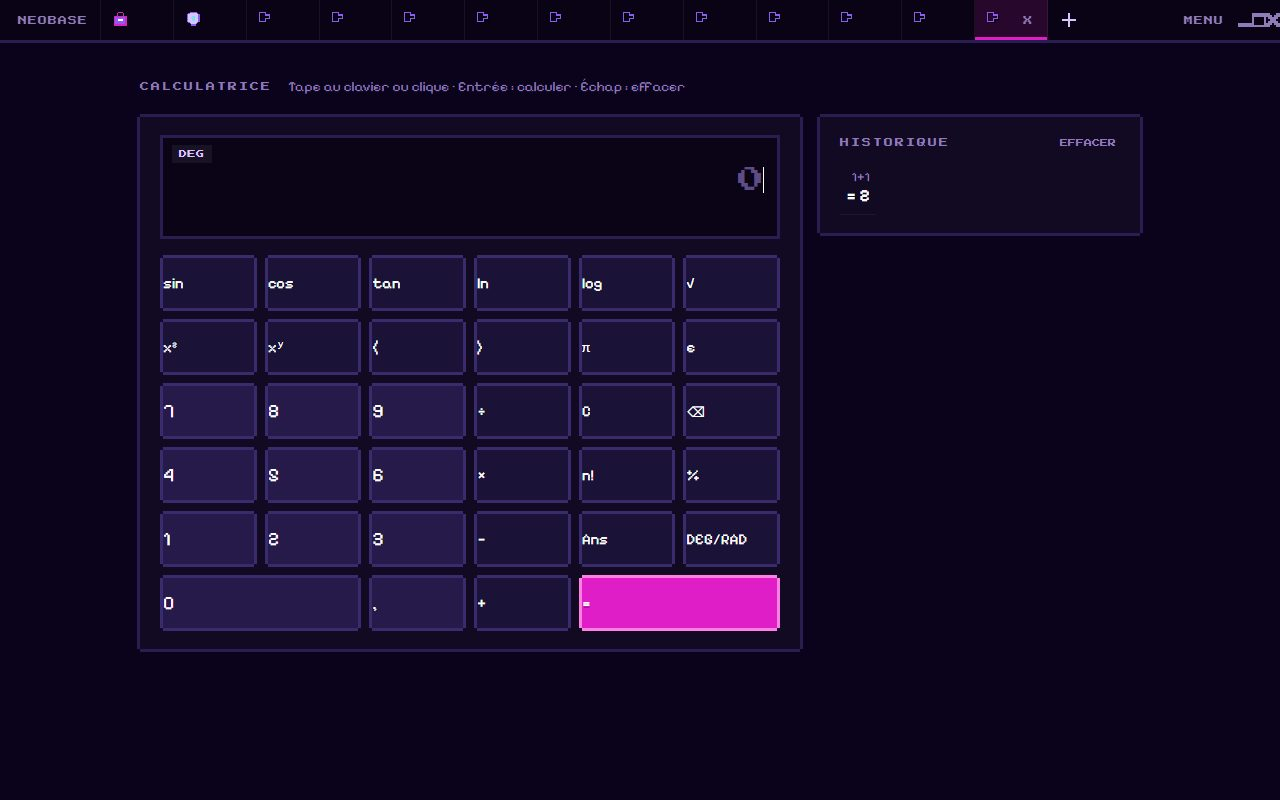
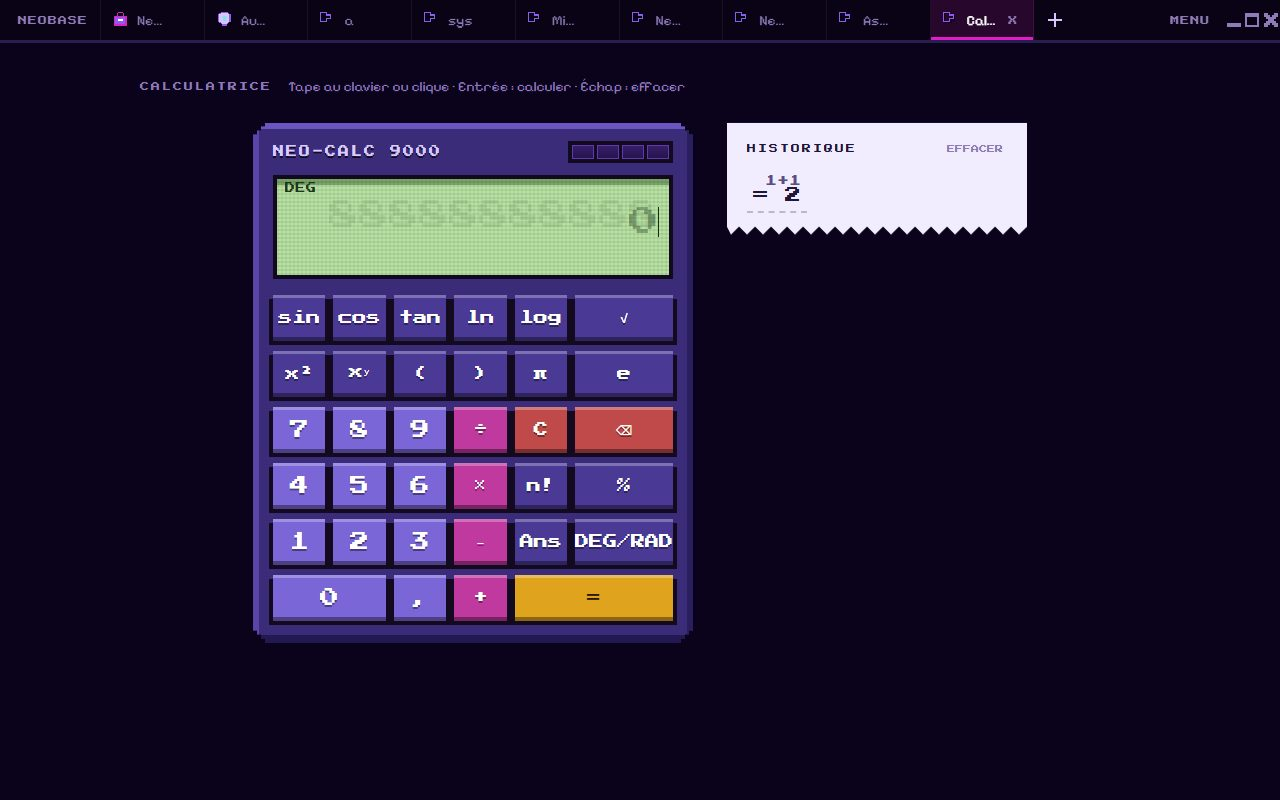
Calculatrice pixel

diff --git a/index.js b/index.js
@@ -1,24 +1,46 @@
 // Calculatrice : ton appli d'origine (HTML et code inchangés), livrée en plugin.
 // Ses données sont dans le dossier du plugin, que NeoBase sauvegarde (synchro cloud et sauvegardes) ; à la première ouverture elle reprend ce que tu avais dans NeoBase.
 // Elle demande l'accès complet pour utiliser les outils d'interface de NeoBase. NeoBase ne l'ouvre que si elle est signée.
-const HTML = "<div class=\"appWrap\">\n      <div class=\"agHead\"><span class=\"label\">Calculatrice</span><span class=\"hint\">Tape au clavier ou clique · Entrée : calculer · Échap : effacer</span></div>\n      <div class=\"calcMain\">\n        <div class=\"sysCard px calcPad\"><div class=\"calcScreen\"><span id=\"calcMode\" class=\"badge\"></span><input id=\"calcIn\" spellcheck=\"false\" autocomplete=\"off\" placeholder=\"0\"><div id=\"calcOut\"></div></div><div id=\"calcKeys\"></div></div>\n        <div class=\"sysCard px calcSide\"><div class=\"chHead\"><span class=\"label\">Historique</span><button class=\"x\" id=\"calcClearHist\" style=\"margin-left:auto;font-size:8px\">EFFACER</button></div><div id=\"calcHist\"></div></div>\n      </div>\n    </div>";
+const HTML = "<div class=\"appWrap\">\n      <div class=\"agHead\"><span class=\"label\">Calculatrice</span><span class=\"hint\">Tape au clavier ou clique · Entrée : calculer · Échap : effacer</span></div>\n      <div class=\"calcMain\">\n        <div class=\"calcBody\"><div class=\"calcTop\"><span class=\"calcBrand\">NEO-CALC 9000</span><div class=\"calcSolar\"><i></i><i></i><i></i><i></i></div></div><div class=\"calcScreen\"><span id=\"calcMode\" class=\"badge\"></span><input id=\"calcIn\" spellcheck=\"false\" autocomplete=\"off\" placeholder=\"0\"><div id=\"calcOut\"></div></div><div id=\"calcKeys\"></div></div>\n        <div class=\"sysCard px calcSide\"><div class=\"chHead\"><span class=\"label\">Historique</span><button class=\"x\" id=\"calcClearHist\" style=\"margin-left:auto;font-size:8px\">EFFACER</button></div><div id=\"calcHist\"></div></div>\n      </div>\n    </div>";
 /*CSS-MOVED*/ const CSS = `.shGrid td.num{text-align:right}
-.calcMain{display:grid;grid-template-columns:minmax(0,1fr) 320px;gap:20px;align-items:start}
-.calcScreen{position:relative;padding:14px 16px;background:var(--field);box-shadow:inset 0 0 0 3px var(--line)}
-#calcMode{position:absolute;top:10px;left:12px}
-#calcIn{all:unset;display:block;width:100%;text-align:right;font:26px var(--title);color:#fff;padding-top:18px}
-#calcIn::placeholder{color:var(--ph)}
-#calcOut{text-align:right;font:18px var(--text);color:var(--pink);min-height:26px;margin-top:6px}
-#calcKeys{display:grid;grid-template-columns:repeat(6,1fr);gap:8px;margin-top:6px}
-.calcKey{height:50px;font:15px var(--text);padding:0;margin:3px}
-.calcKey.wide{grid-column:span 2}
-.calcKey.num{--fill:var(--btnh);font-size:19px}
-.calcRow{all:unset;cursor:var(--cp,pointer);display:flex;flex-direction:column;align-items:flex-end;padding:8px 6px;border-bottom:1px solid rgba(255,255,255,.06)}
-.calcRow:hover{background:rgba(255,255,255,.05)}
-.calcRow span{font-size:13px;color:var(--muted);word-break:break-all}
-.calcRow b{font-size:17px;color:#fff}
-#calcHist{max-height:520px;overflow-y:auto}
 .chHead{display:flex;align-items:center;gap:16px;flex-wrap:wrap}
+.calcMain{display:grid;grid-template-columns:minmax(0,440px) minmax(220px,300px);gap:34px;align-items:start;justify-content:center;padding:6px 0 18px}
+/* le boîtier : bords en escalier, relief de plastique */
+.calcBody{position:relative;padding:18px 20px 22px;background:#3a2c78;clip-path:polygon(0 12px,4px 12px,4px 8px,8px 8px,8px 4px,12px 4px,12px 0,calc(100% - 12px) 0,calc(100% - 12px) 4px,calc(100% - 8px) 4px,calc(100% - 8px) 8px,calc(100% - 4px) 8px,calc(100% - 4px) 12px,100% 12px,100% calc(100% - 12px),calc(100% - 4px) calc(100% - 12px),calc(100% - 4px) calc(100% - 8px),calc(100% - 8px) calc(100% - 8px),calc(100% - 8px) calc(100% - 4px),calc(100% - 12px) calc(100% - 4px),calc(100% - 12px) 100%,12px 100%,12px calc(100% - 4px),8px calc(100% - 4px),8px calc(100% - 8px),4px calc(100% - 8px),4px calc(100% - 12px),0 calc(100% - 12px));
+  box-shadow:inset 0 6px 0 #6b55c0,inset 6px 0 0 #5a45a8,inset 0 -8px 0 #221852,inset -6px 0 0 #2a1f5e}
+.calcTop{display:flex;align-items:center;justify-content:space-between;margin-bottom:12px}
+.calcBrand{font:11px var(--title);letter-spacing:2px;color:#d9ccff;text-shadow:0 2px 0 #130a20}
+.calcSolar{display:flex;gap:3px;padding:4px;background:#130a20}
+.calcSolar i{display:block;width:22px;height:14px;background:linear-gradient(180deg,#3a1f6e,#24134a);box-shadow:inset 0 0 0 1px #5b3bb0}
+/* l'écran LCD : chiffres fantômes derrière, trame de pixels par-dessus */
+.calcScreen{position:relative;padding:12px 14px 10px;background:#b9e3a3;box-shadow:inset 0 0 0 4px #130a20,inset 0 6px 0 4px #7aa56a;overflow:hidden;margin-bottom:16px}
+.calcScreen::before{content:'88888888888';position:absolute;right:14px;top:26px;font:30px var(--title);color:rgba(20,40,20,.09);letter-spacing:0;pointer-events:none}
+.calcScreen::after{content:'';position:absolute;inset:0;pointer-events:none;background:repeating-linear-gradient(0deg,rgba(0,0,0,.07) 0 2px,transparent 2px 4px),repeating-linear-gradient(90deg,rgba(0,0,0,.05) 0 2px,transparent 2px 4px)}
+#calcMode{position:absolute;top:8px;left:12px;font:10px var(--title);color:#1d3a1a;background:none;box-shadow:none;padding:0}
+#calcIn{all:unset;display:block;width:100%;box-sizing:border-box;text-align:right;font:30px var(--title);color:#16301a;padding-top:20px;position:relative}
+#calcIn::placeholder{color:rgba(22,48,26,.35)}
+#calcOut{text-align:right;font:18px var(--title);color:#3b6a3a;min-height:26px;margin-top:6px;position:relative}
+#calcKeys{display:grid;grid-template-columns:repeat(6,minmax(0,1fr));gap:10px 8px;margin-top:6px}
+#calcKeys .calcKey{all:unset;box-sizing:border-box;display:flex;align-items:center;justify-content:center;height:46px;cursor:var(--cp,pointer);font:13px var(--title);color:#fff;background:#4a3a96;overflow:hidden;white-space:nowrap;
+  box-shadow:inset 0 3px 0 rgba(255,255,255,.28),inset 0 -4px 0 rgba(0,0,0,.38),0 4px 0 #130a20,4px 4px 0 #130a20,-4px 4px 0 #130a20;text-shadow:0 2px 0 rgba(0,0,0,.4)}
+#calcKeys .calcKey:hover{filter:brightness(1.15)}
+#calcKeys .calcKey:active{transform:translateY(4px);box-shadow:inset 0 3px 0 rgba(0,0,0,.25),0 0 0 #130a20}
+#calcKeys .calcKey.wide{grid-column:span 2}
+#calcKeys .calcKey.num{background:#7a66d6;font-size:19px}
+#calcKeys .calcKey.op{background:#c0399f}
+#calcKeys .calcKey.del{background:#c04a4a}
+#calcKeys .calcKey.main{background:#e0a31e;color:#2a1a00;text-shadow:none}
+/* le ticket : l'historique comme une bande de papier */
+.calcSide{background:#f2ecff!important;color:#201638;clip-path:polygon(0 0,100% 0,100% calc(100% - 8px),calc(100% - 8px) 100%,calc(100% - 16px) calc(100% - 8px),calc(100% - 24px) 100%,calc(100% - 32px) calc(100% - 8px),calc(100% - 40px) 100%,calc(100% - 48px) calc(100% - 8px),calc(100% - 56px) 100%,calc(100% - 64px) calc(100% - 8px),calc(100% - 72px) 100%,calc(100% - 80px) calc(100% - 8px),calc(100% - 88px) 100%,calc(100% - 96px) calc(100% - 8px),calc(100% - 104px) 100%,calc(100% - 112px) calc(100% - 8px),calc(100% - 120px) 100%,calc(100% - 128px) calc(100% - 8px),calc(100% - 136px) 100%,calc(100% - 144px) calc(100% - 8px),calc(100% - 152px) 100%,calc(100% - 160px) calc(100% - 8px),calc(100% - 168px) 100%,calc(100% - 176px) calc(100% - 8px),calc(100% - 184px) 100%,calc(100% - 192px) calc(100% - 8px),calc(100% - 200px) 100%,calc(100% - 208px) calc(100% - 8px),calc(100% - 216px) 100%,calc(100% - 224px) calc(100% - 8px),calc(100% - 232px) 100%,calc(100% - 240px) calc(100% - 8px),calc(100% - 248px) 100%,calc(100% - 256px) calc(100% - 8px),calc(100% - 264px) 100%,calc(100% - 272px) calc(100% - 8px),calc(100% - 280px) 100%,calc(100% - 288px) calc(100% - 8px),calc(100% - 296px) 100%,0 calc(100% - 8px));padding-bottom:22px!important}
+.calcSide .label{color:#201638!important}
+.calcRow{all:unset;cursor:var(--cp,pointer);display:flex;flex-direction:column;align-items:flex-end;padding:8px 6px;border-bottom:2px dashed rgba(32,22,56,.25)}
+.calcRow:hover{background:rgba(32,22,56,.08)}
+.calcRow span{display:block;font:12px var(--title);color:#5b4d85;word-break:break-all;line-height:1.4}
+.calcRow b{display:block;line-height:1.4}
+.calcRow b{font:16px var(--title);color:#201638}
+#calcHist{max-height:480px;overflow-y:auto}
+#calcHist .hint{color:#5b4d85}
+@media(max-width:820px){.calcMain{grid-template-columns:minmax(0,1fr)}}
 `;  // le style de ce plugin (il utilise les variables du thème de NeoBase)
 export default async function (ctx) {
   const view = ctx.view;
@@ -102,7 +124,7 @@ export default async function (ctx) {
     ['1', '1'], ['2', '2'], ['3', '3'], ['−', '−'], ['Ans', 'Ans'], ['DEG/RAD', 'mode'],
     ['0', '0', 1], [',', ','], ['+', '+'], ['=', 'equals', 1]];
   $('calcKeys').replaceChildren(...CALC_KEYS.map(([label, v, wide]) => {
-    const b = el('button', 'btn px calcKey' + (/^\d$|^,$/.test(label) ? ' num' : '') + (v === 'equals' ? ' main' : '') + (wide ? ' wide' : ''), label);
+    const b = el('button', 'btn px calcKey' + (/^\d$|^,$/.test(label) ? ' num' : '') + (v === 'equals' ? ' main' : '') + (/^[÷×−+]$/.test(label) ? ' op' : '') + (v === 'clear' || v === 'back' ? ' del' : '') + (wide ? ' wide' : ''), label);
     b.onclick = () => {
       const inp = $('calcIn');
       if (v === 'clear') inp.value = ''; else if (v === 'back') inp.value = inp.value.slice(0, -1); else if (v === 'equals') return calcEquals(); else if (v === 'mode') calcDeg = !calcDeg;

diff --git a/README.md b/README.md
@@ -1,12 +1,11 @@
 # Calculatrice
 
-Une calculatrice scientifique pour NeoBase : opérations, fonctions (sin, cos, ln, √…), degrés ou
-radians, et un historique de tes calculs, synchronisé entre tes appareils.
+Calculatrice scientifique : opérations, fonctions et historique de tes calculs.
+
+Ses données sont rangées dans le dossier du plugin, que NeoBase sauvegarde (synchro cloud comprise). Au premier lancement, il reprend ce que tu avais déjà dans NeoBase.
 
 ## Installer
 
 Dans NeoBase : **NeoStore → À découvrir → Calculatrice → Installer**.
 
-## Développer un plugin
-
-Le format et le guide sont dans le [SDK NeoBase](https://github.com/NDesumeur/neobase-sdk).
+Développer un plugin : voir le [SDK NeoBase](https://github.com/NDesumeur/neobase-sdk).
